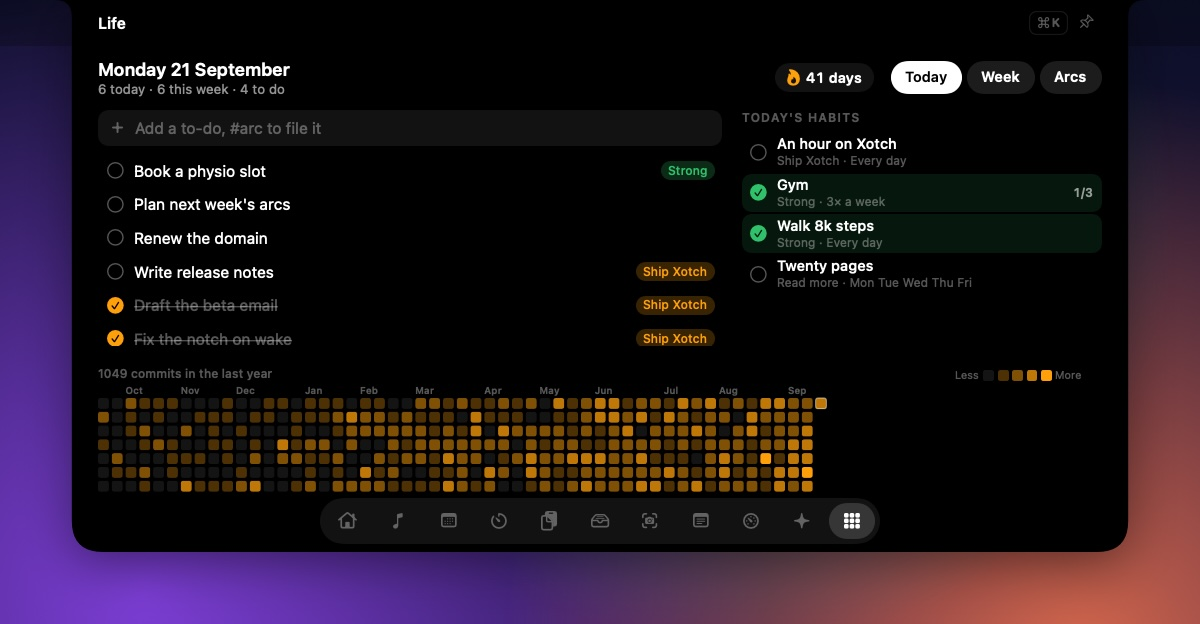
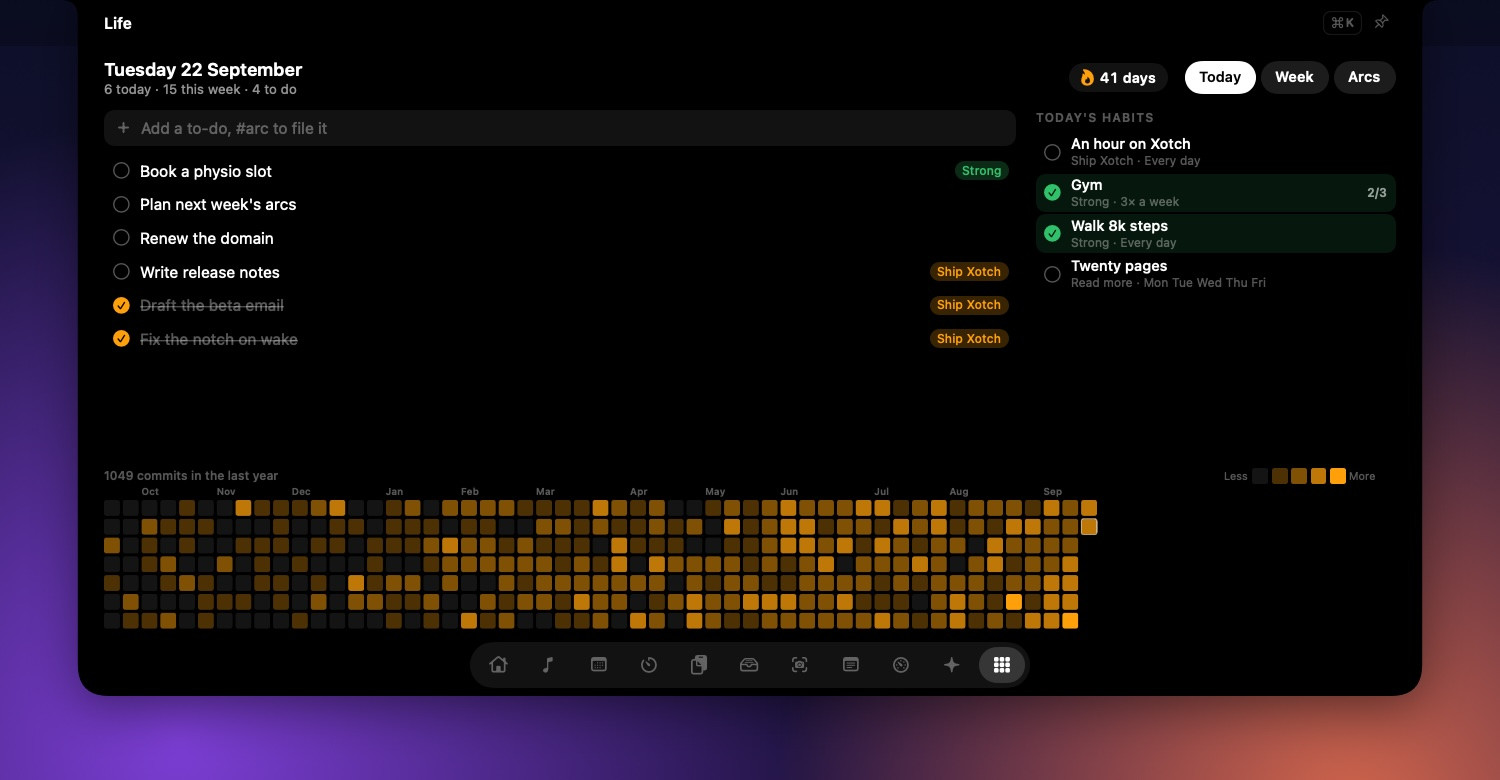
Show the week, and answer "I don't have a notch"
The Life screenshot was rendered at the old 880x460 notch, before the
graph filled its width, so it no longer looks like the app. Re-rendered,
and the week gets its own shot: seven columns with their add fields is
the part that makes Life a planner rather than a list, and nothing in
the README showed it.

The FAQ never answered the question an iMac or Mac mini owner asks
first, which is now a straight yes.

Changed region(s): [[0.0, 0.0, 1.0, 1.0]]

diff --git a/docs/index.html b/docs/index.html
@@ -225,15 +225,19 @@ footer a { color: var(--ink-2); }
     <div>
       <p class="kicker">Life</p>
       <h2>Your life, one square at a time</h2>
-      <p style="color:var(--ink-2);margin-top:10px">Today's to-dos, the week at a glance, and a square for every day that darkens with what you got done — a commit graph, for your life.</p>
+      <p style="color:var(--ink-2);margin-top:10px">Today's to-dos, a week you can plan a day at a time, and a square for every day that darkens with what you got done — a commit graph, for your life.</p>
       <ul>
         <li><strong>Arcs</strong> are the stretches you commit to: an end date, the habits you'll keep, the milestones that prove it.</li>
         <li>A to-do counts as one commit, a habit kept as two, a milestone as five.</li>
         <li>Habits can remind you, and you can check in from the notification.</li>
         <li>Unfinished to-dos carry over instead of quietly disappearing.</li>
+        <li>Every day in the week takes its own to-do, so the week is planned where you look at it.</li>
       </ul>
     </div>
-    <div class="shot"><img src="images/module-life.jpg" alt="The Life module: today's to-dos, today's habits, and a year of squares" loading="lazy"></div>
+    <div style="display:grid;gap:14px">
+      <div class="shot"><img src="images/module-life.jpg" alt="The Life module: today's to-dos, today's habits, and a year of squares" loading="lazy"></div>
+      <div class="shot"><img src="images/module-life-week.jpg" alt="Life's week: seven day columns, each with its own to-dos and an Add field" loading="lazy"></div>
+    </div>
   </section>
 
   <section id="capture" class="split flip">

diff --git a/Sources/Xotch/App/MarketingShots.swift b/Sources/Xotch/App/MarketingShots.swift
@@ -66,6 +66,10 @@ enum MarketingShots {
                 }
                 // Life asks for a bigger notch, so its shot needs a bigger scene.
                 save("module-life", open("life"), size: CGSize(width: 1250, height: 650), scale: 1.2)
+                // The week is where Life is planned, so it gets its own shot.
+                LifeService.debugTab = "Week"
+                save("module-life-week", open("life"), size: CGSize(width: 1250, height: 650), scale: 1.2)
+                LifeService.debugReset()
                 let palette = open("home")
                 palette.isPinned = true
                 palette.palette.isOpen = true

diff --git a/README.md b/README.md
@@ -94,14 +94,17 @@ If more than one thing is live, the most important shows, and small dots tell yo
 
 <img src="docs/images/module-life.jpg" alt="Life: today's to-dos on the left, today's habits on the right, and a year of squares that darken with what you got done">
 
-Today's to-dos, the week at a glance, and a square for every day that darkens with what you got done — a commit graph, for your life.
+Today's to-dos, a week you can plan a day at a time, and a square for every day that darkens with what you got done — a commit graph, for your life.
 
 **Arcs** are the stretches you're committing to: a name, an end date, the habits you'll keep and the milestones that prove it. A finished to-do counts as one commit, a habit kept as two, a milestone as five, and the streak counts the days you kept going.
 
 - Type a to-do straight into the notch, or press ⌘K anywhere and say what you're doing.
+- Plan the week in the week: every day takes its own to-do, and you can drag one to another day or right-click to move it.
 - Habits can remind you at a time you pick, and you can check in from the notification without opening anything.
 - Unfinished to-dos carry over to the next day rather than quietly disappearing.
 - Click any square to see what you finished that day.
+
+<img src="docs/images/module-life-week.jpg" alt="Life's week: seven day columns, each with its own to-dos and an Add field, above a year of squares">
 
 The notch grows when you open Life, and shrinks back for everything else.
 
@@ -267,6 +270,12 @@ Open Clipboard and choose **Allow**. Then set Xotch to always allow under **Past
 <summary><b>The music bars don't follow the music.</b></summary>
 
 Allow Xotch under **System Settings › Privacy & Security › Screen & System Audio Recording**, or turn real sound off in Settings to keep the built-in animation.
+</details>
+
+<details>
+<summary><b>I don't have a notch.</b></summary>
+
+Then Xotch draws one. On a Mac without a notch — an iMac, a Mac mini, a Studio, an older MacBook — and on any external monitor, it draws a notch in that screen's menu bar, sized to the screen, and everything works the same. By default every display gets one; **Settings › Display** can narrow that to a single screen.
 </details>
 
 <details>
